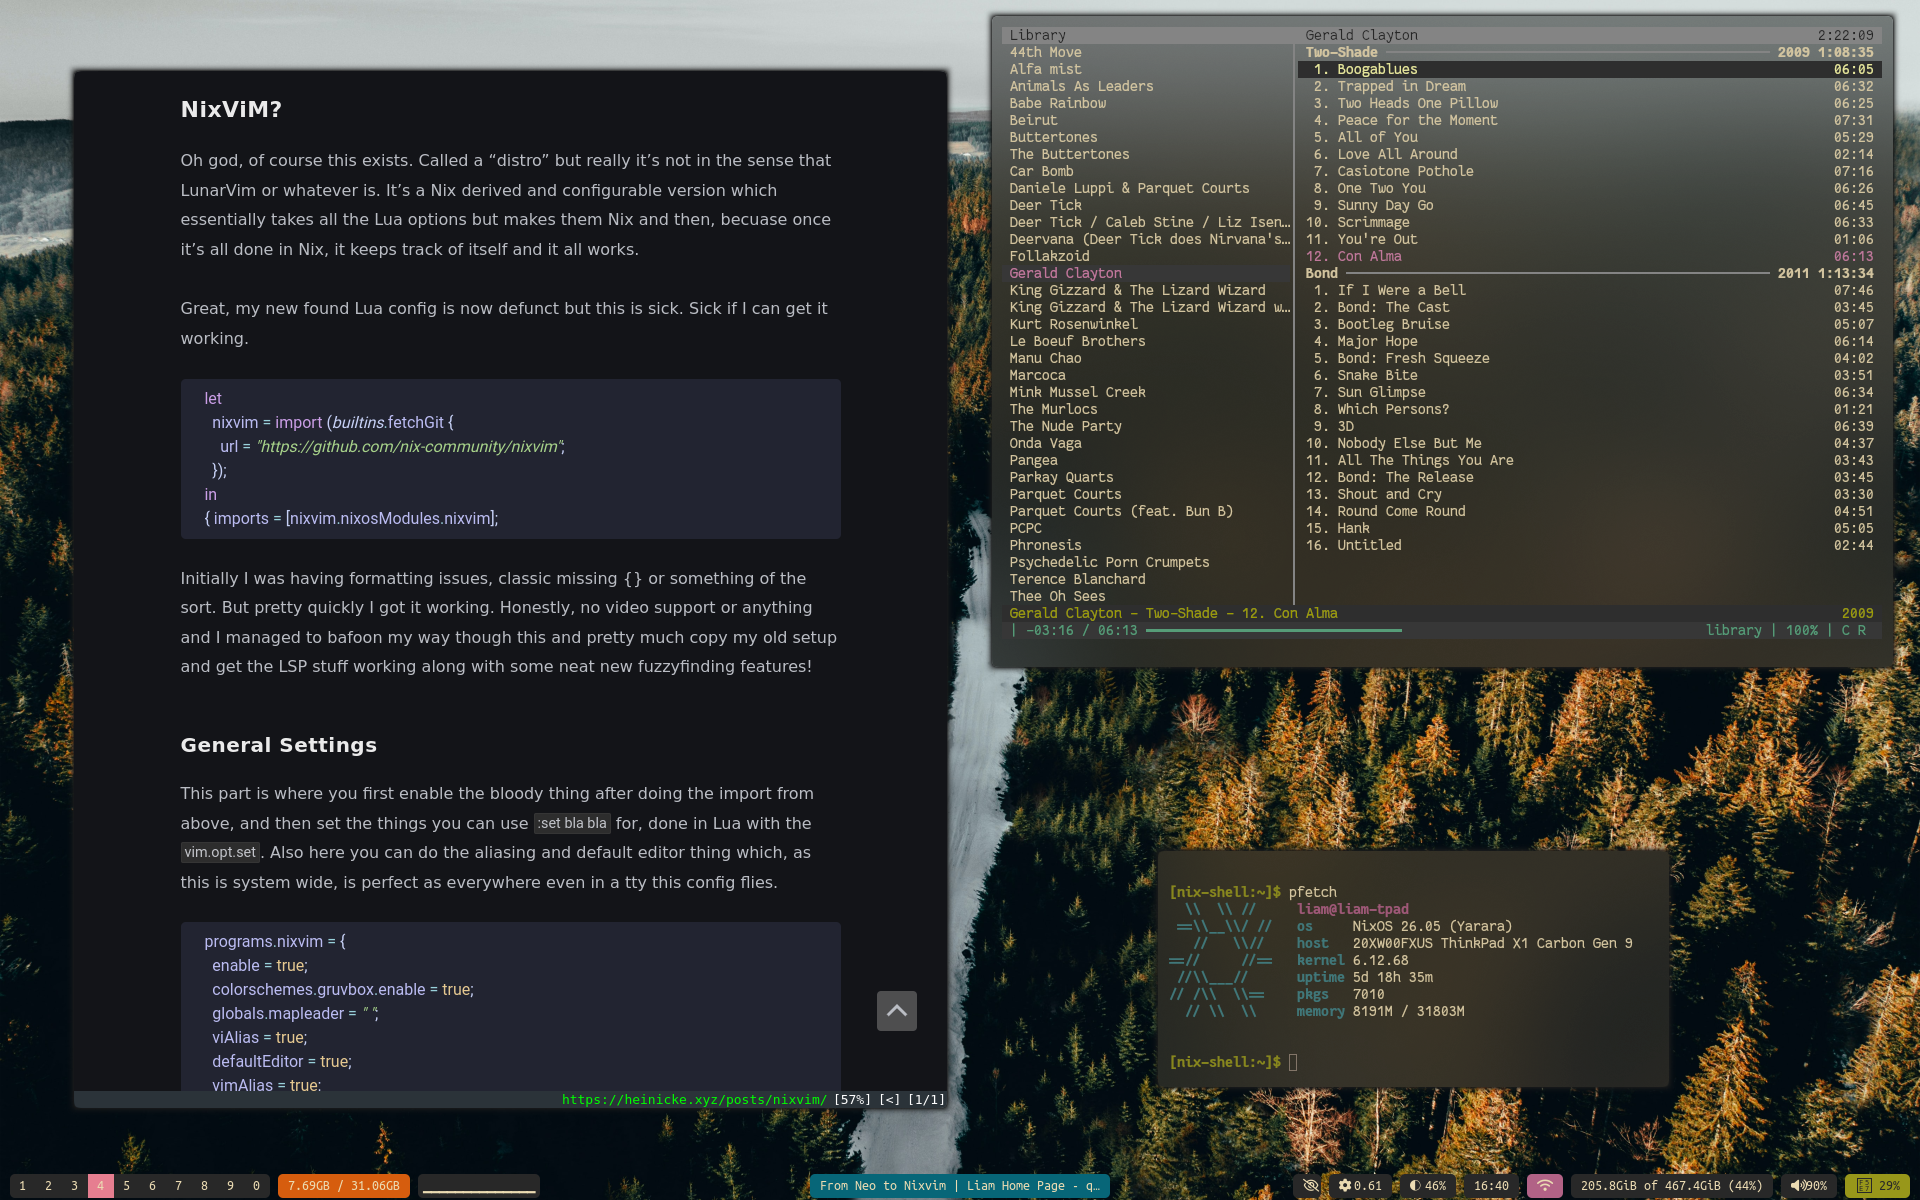
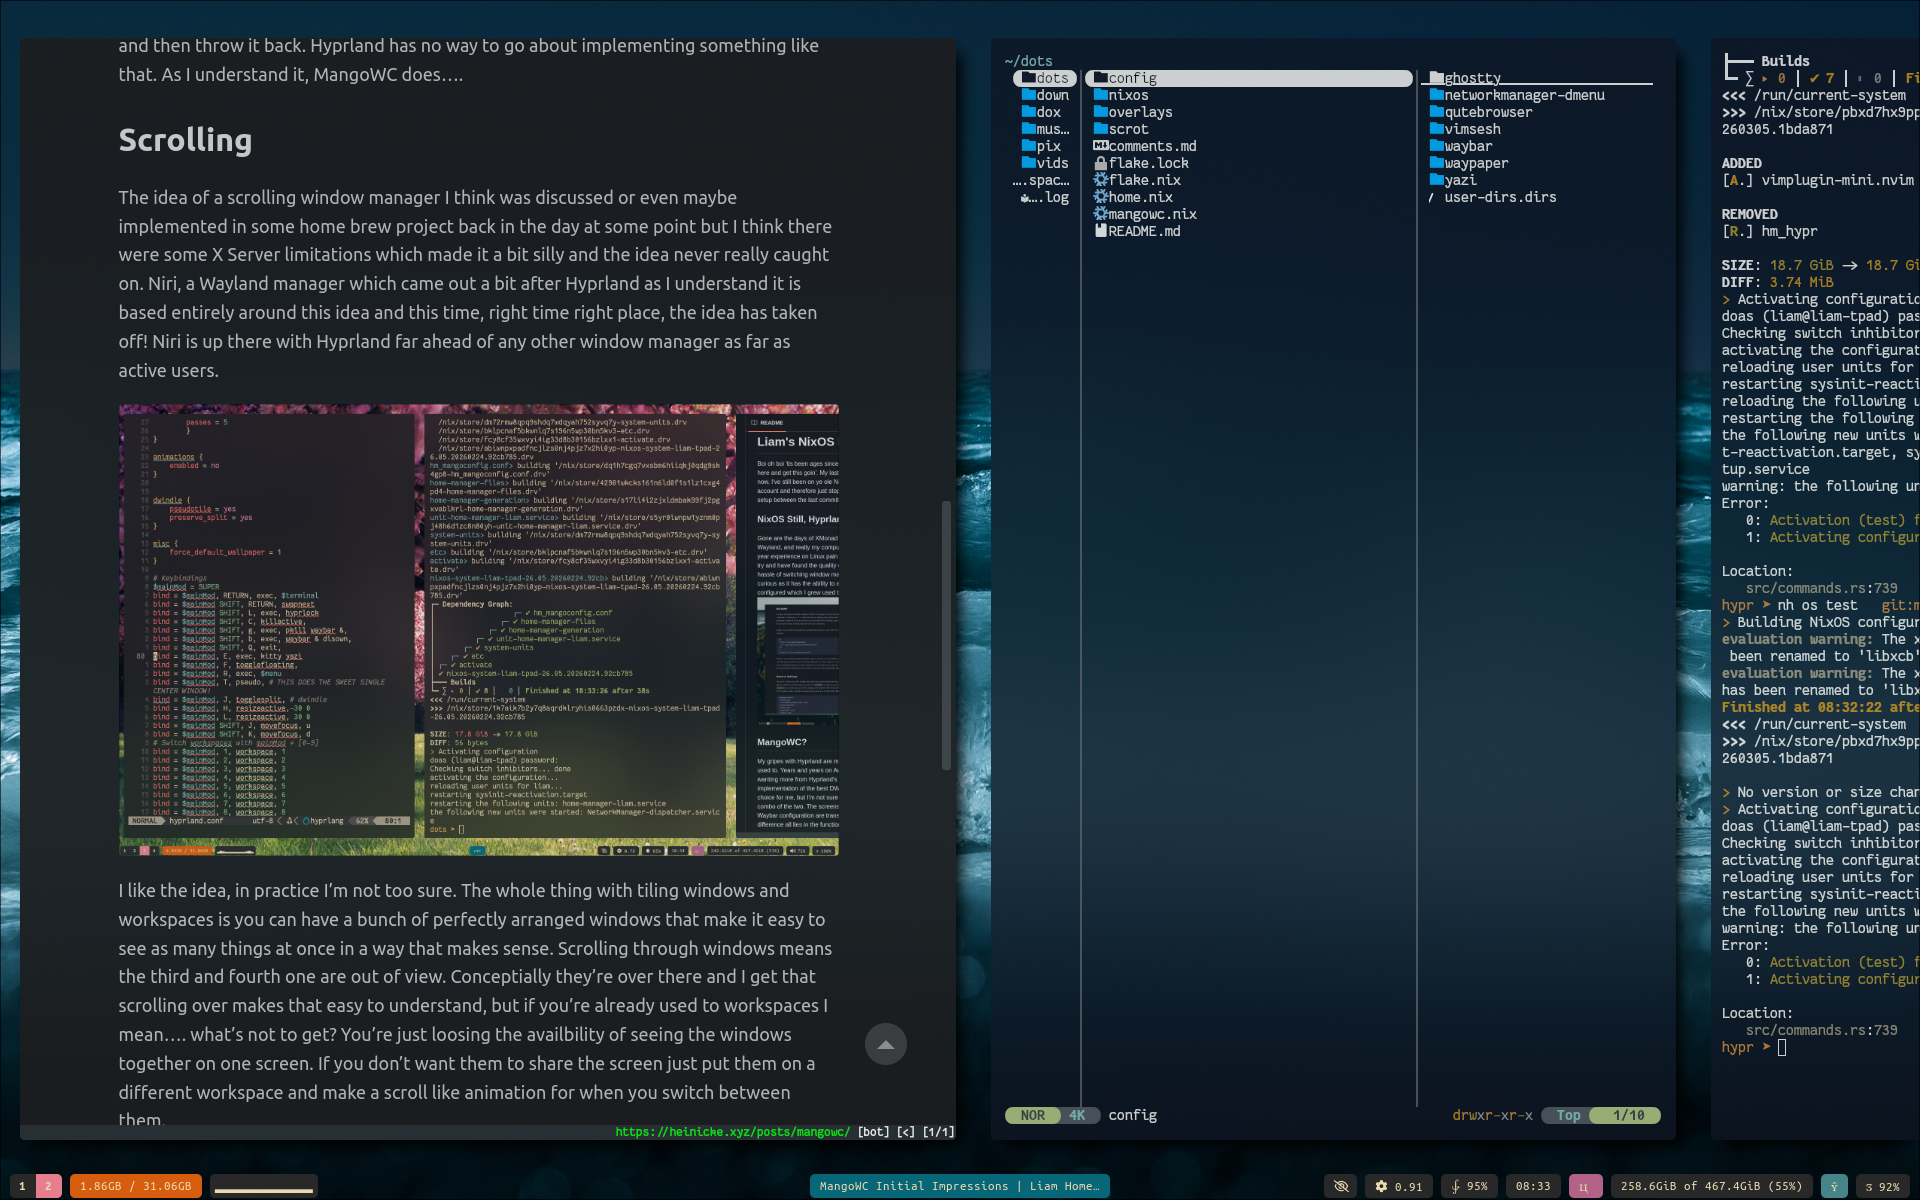
mangowc readme update

diff --git a/README.md b/README.md
@@ -2,14 +2,12 @@
 
 Boi oh boi 'tis been ages since I've bothered to figure out how to get back on here and get this goin'. My last [Github Repo Here](https://github.com/mahallow/thinkdots) is like 5 plus years old now. I've still been on ye ole Nix/Vim/Linux setup but lost access to that account and therefore just stopped because I didn't do too much to my setup between the last commit and then. Or so I thought...
 
-## NixOS Still, Hyprland Now
+## NixOS Still, MangoWC
 
-Gone are the days of XMonad and XMobar. Since realizing I could try Wayland, and really my computer is pretty simply used but a few of my 20+ year experience on Linux pain points were due to Xorg, I gave Hyprland a try and have found the quality of life for normal desktop use to be worth the hassle of switching window managers. That being said, I am MangoWC curious as it has the ability to add in a few things from XMonad I had configured which I grew used to. 
+Gone are the days of XMonad and XMobar. Since realizing I could try Wayland, and really my computer is pretty simply used but a few of my 20+ year experience on Linux pain points were due to Xorg, I gave Hyprland a try and have found the quality of life for normal desktop use to be worth the hassle of switching window managers. That being said, I have since moved to MangoWC as it is a dynamically tiled window manager with similar bells and whistles as far as getting things to look noice but has more configuration options and seems to be a bit faster and lighter at least in the way I've got it setup compared to Hyprland. 
+
 ![](scrot/scrot.png)
 
-## MangoWC?
-
-My gripes with Hyprland are mainly from the fact its more manual than I'm used to. Years and years on AwesomeWM and Xmonad have left me wanting more from Hyprland's layouts and whatnot. I think MangoWC's implementation of the best DWM patches and whatnot have made it the choice for me, but I'm not sure yet so we are working with some strange combo of the two. The screenshots apply still though as Stylix and my Waybar configuration are transportable so really it all looks the same. The difference all lies in the functionality when on the keyboard.
 
 ## Now with Flakes!
 
@@ -21,6 +19,7 @@ To reproduce this on a fresh NixOS install simple clone the repo, enable flakes 
 
 After getting back into the whole customVim thing trying to add some Lua to my 10 year old .vimrc which I shoved into the ```/etc/nixos/vim.nix``` file, I found out and learned how to configure NixVim! How sick is that hey, it works well, my pretty simple setup was relativly easy to port over and I don't know why you'd do anything else on Nixos. 
 ![](scrot/nixvim.png)
+
 # Anyways
 
 Thanks for looking! I hope to keep this more up to date as it is rather handy having a way to reference changes over time for these sorts of things. Check out [my site for more detailed explinations](https://heinicke.xyz) and breakdowns of how the configuration works and philosophies behind some choices. 
